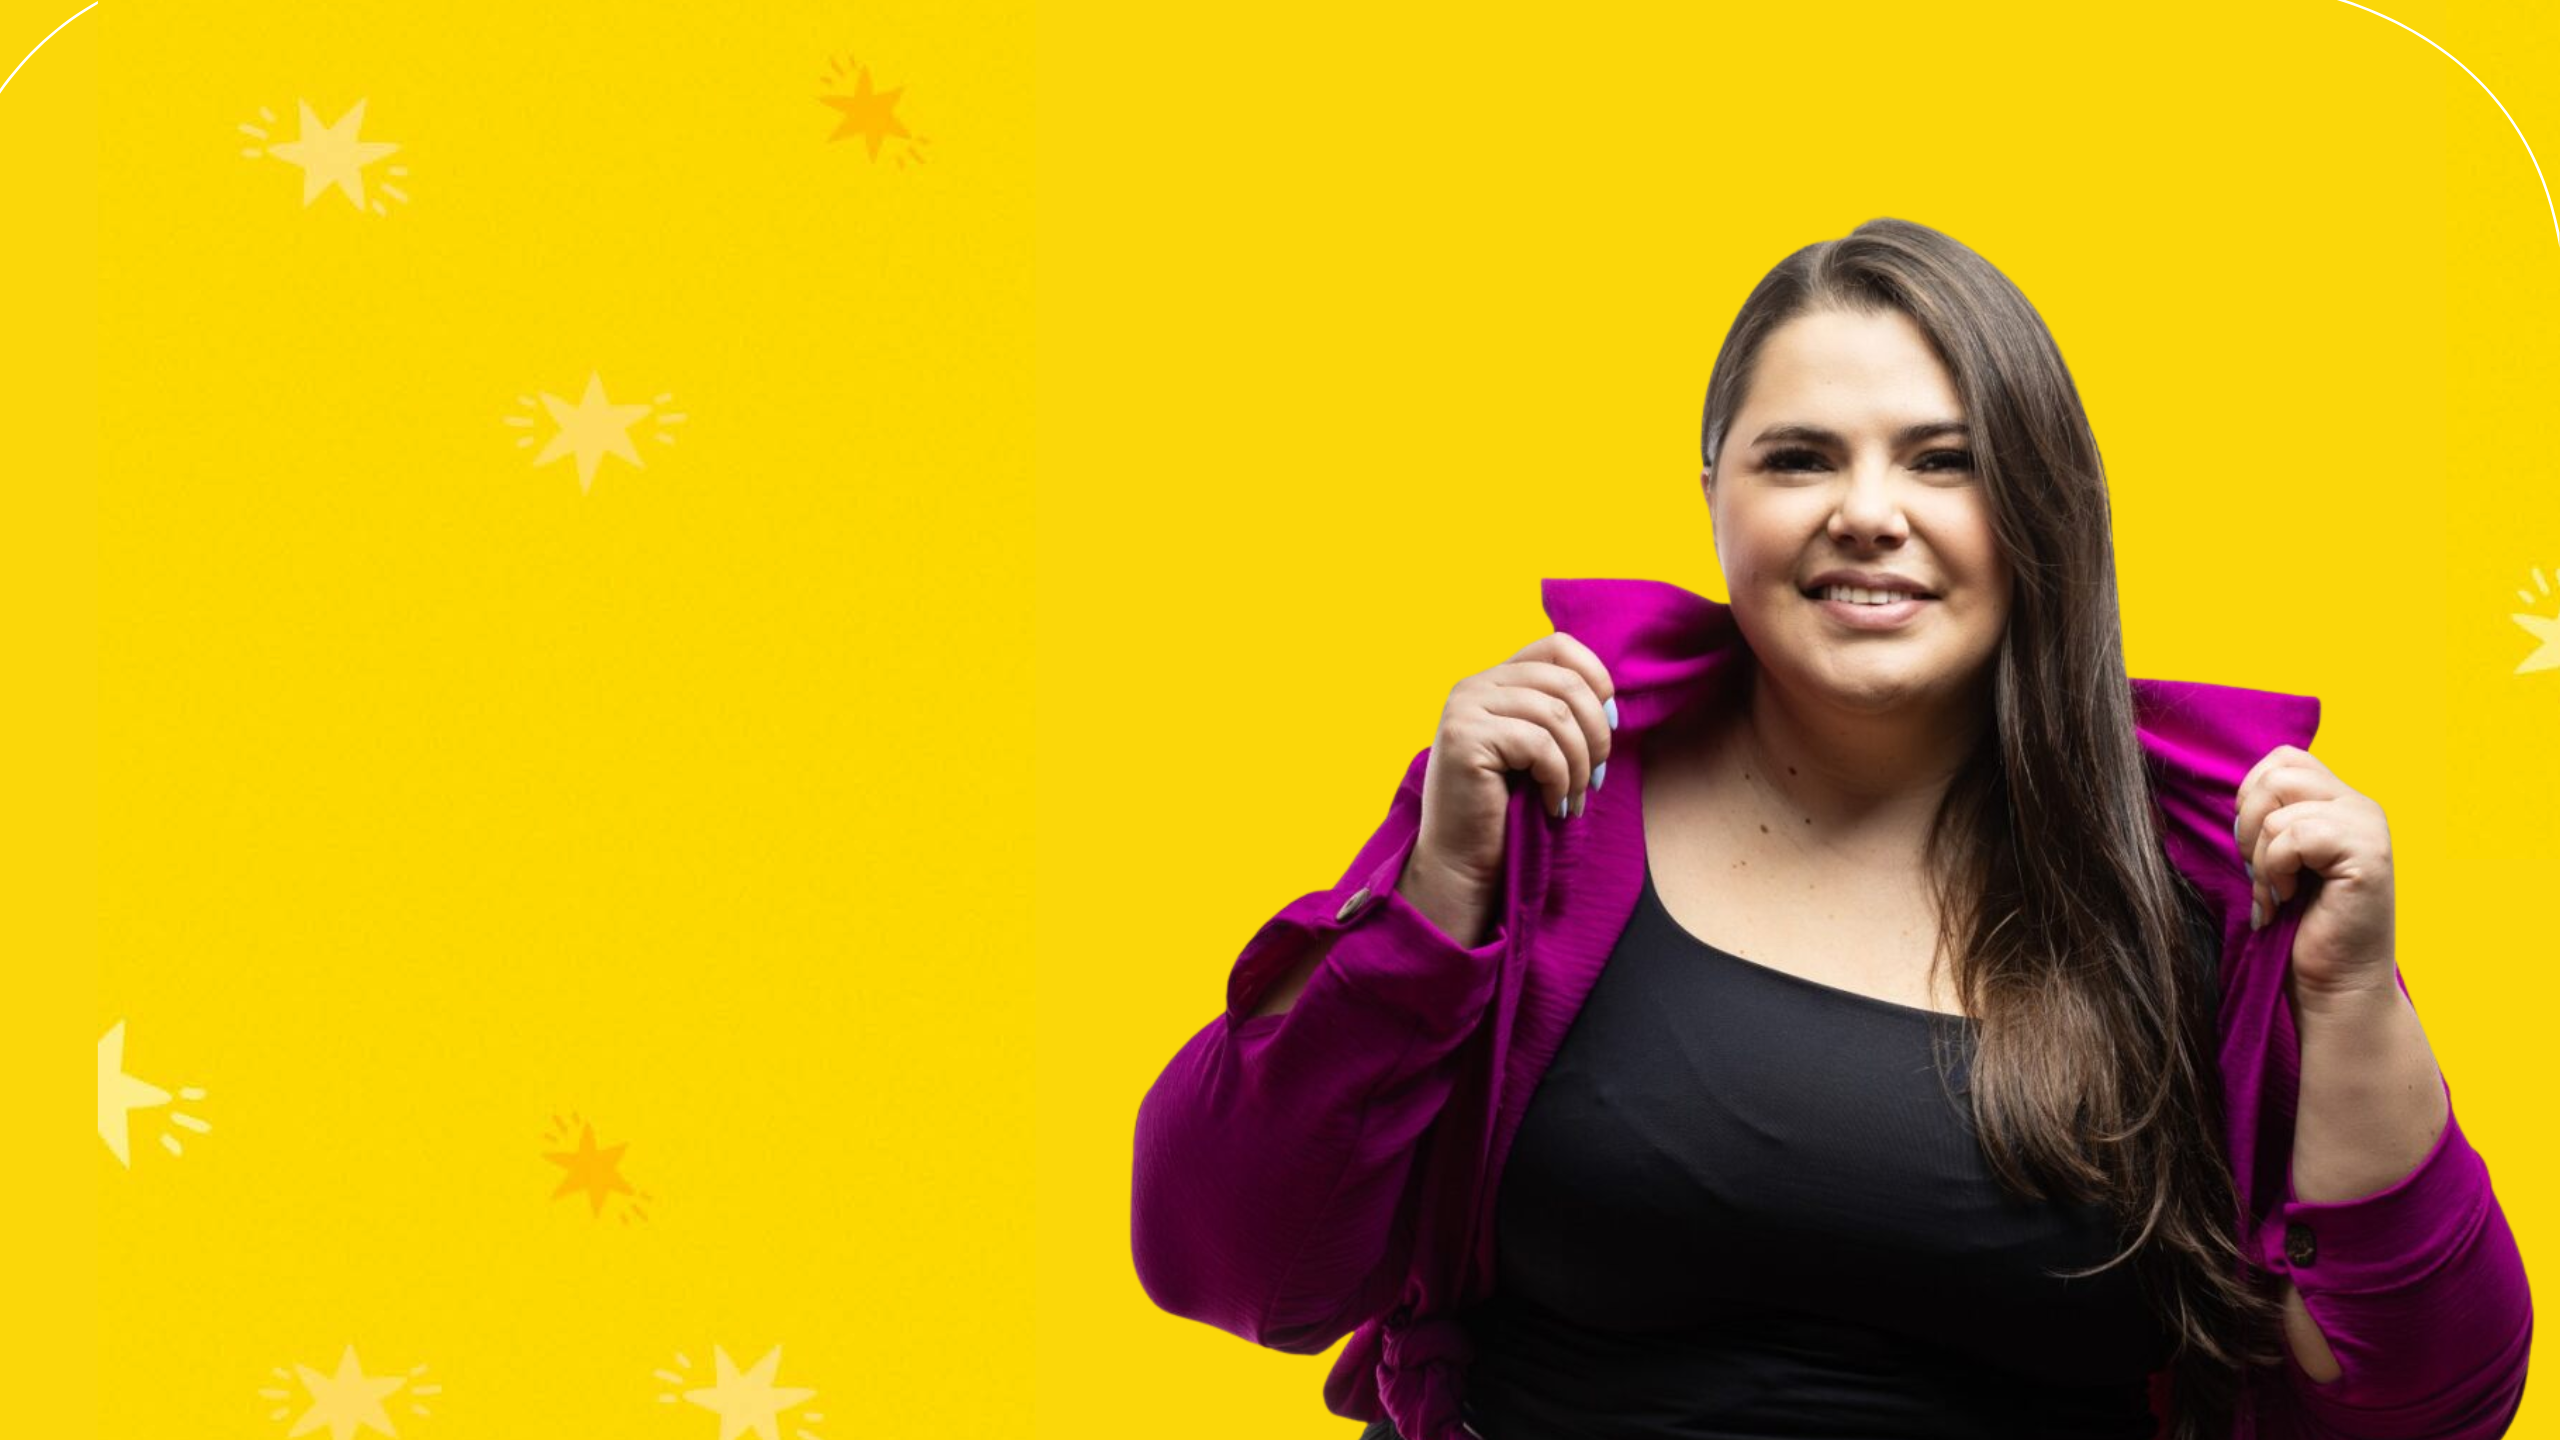
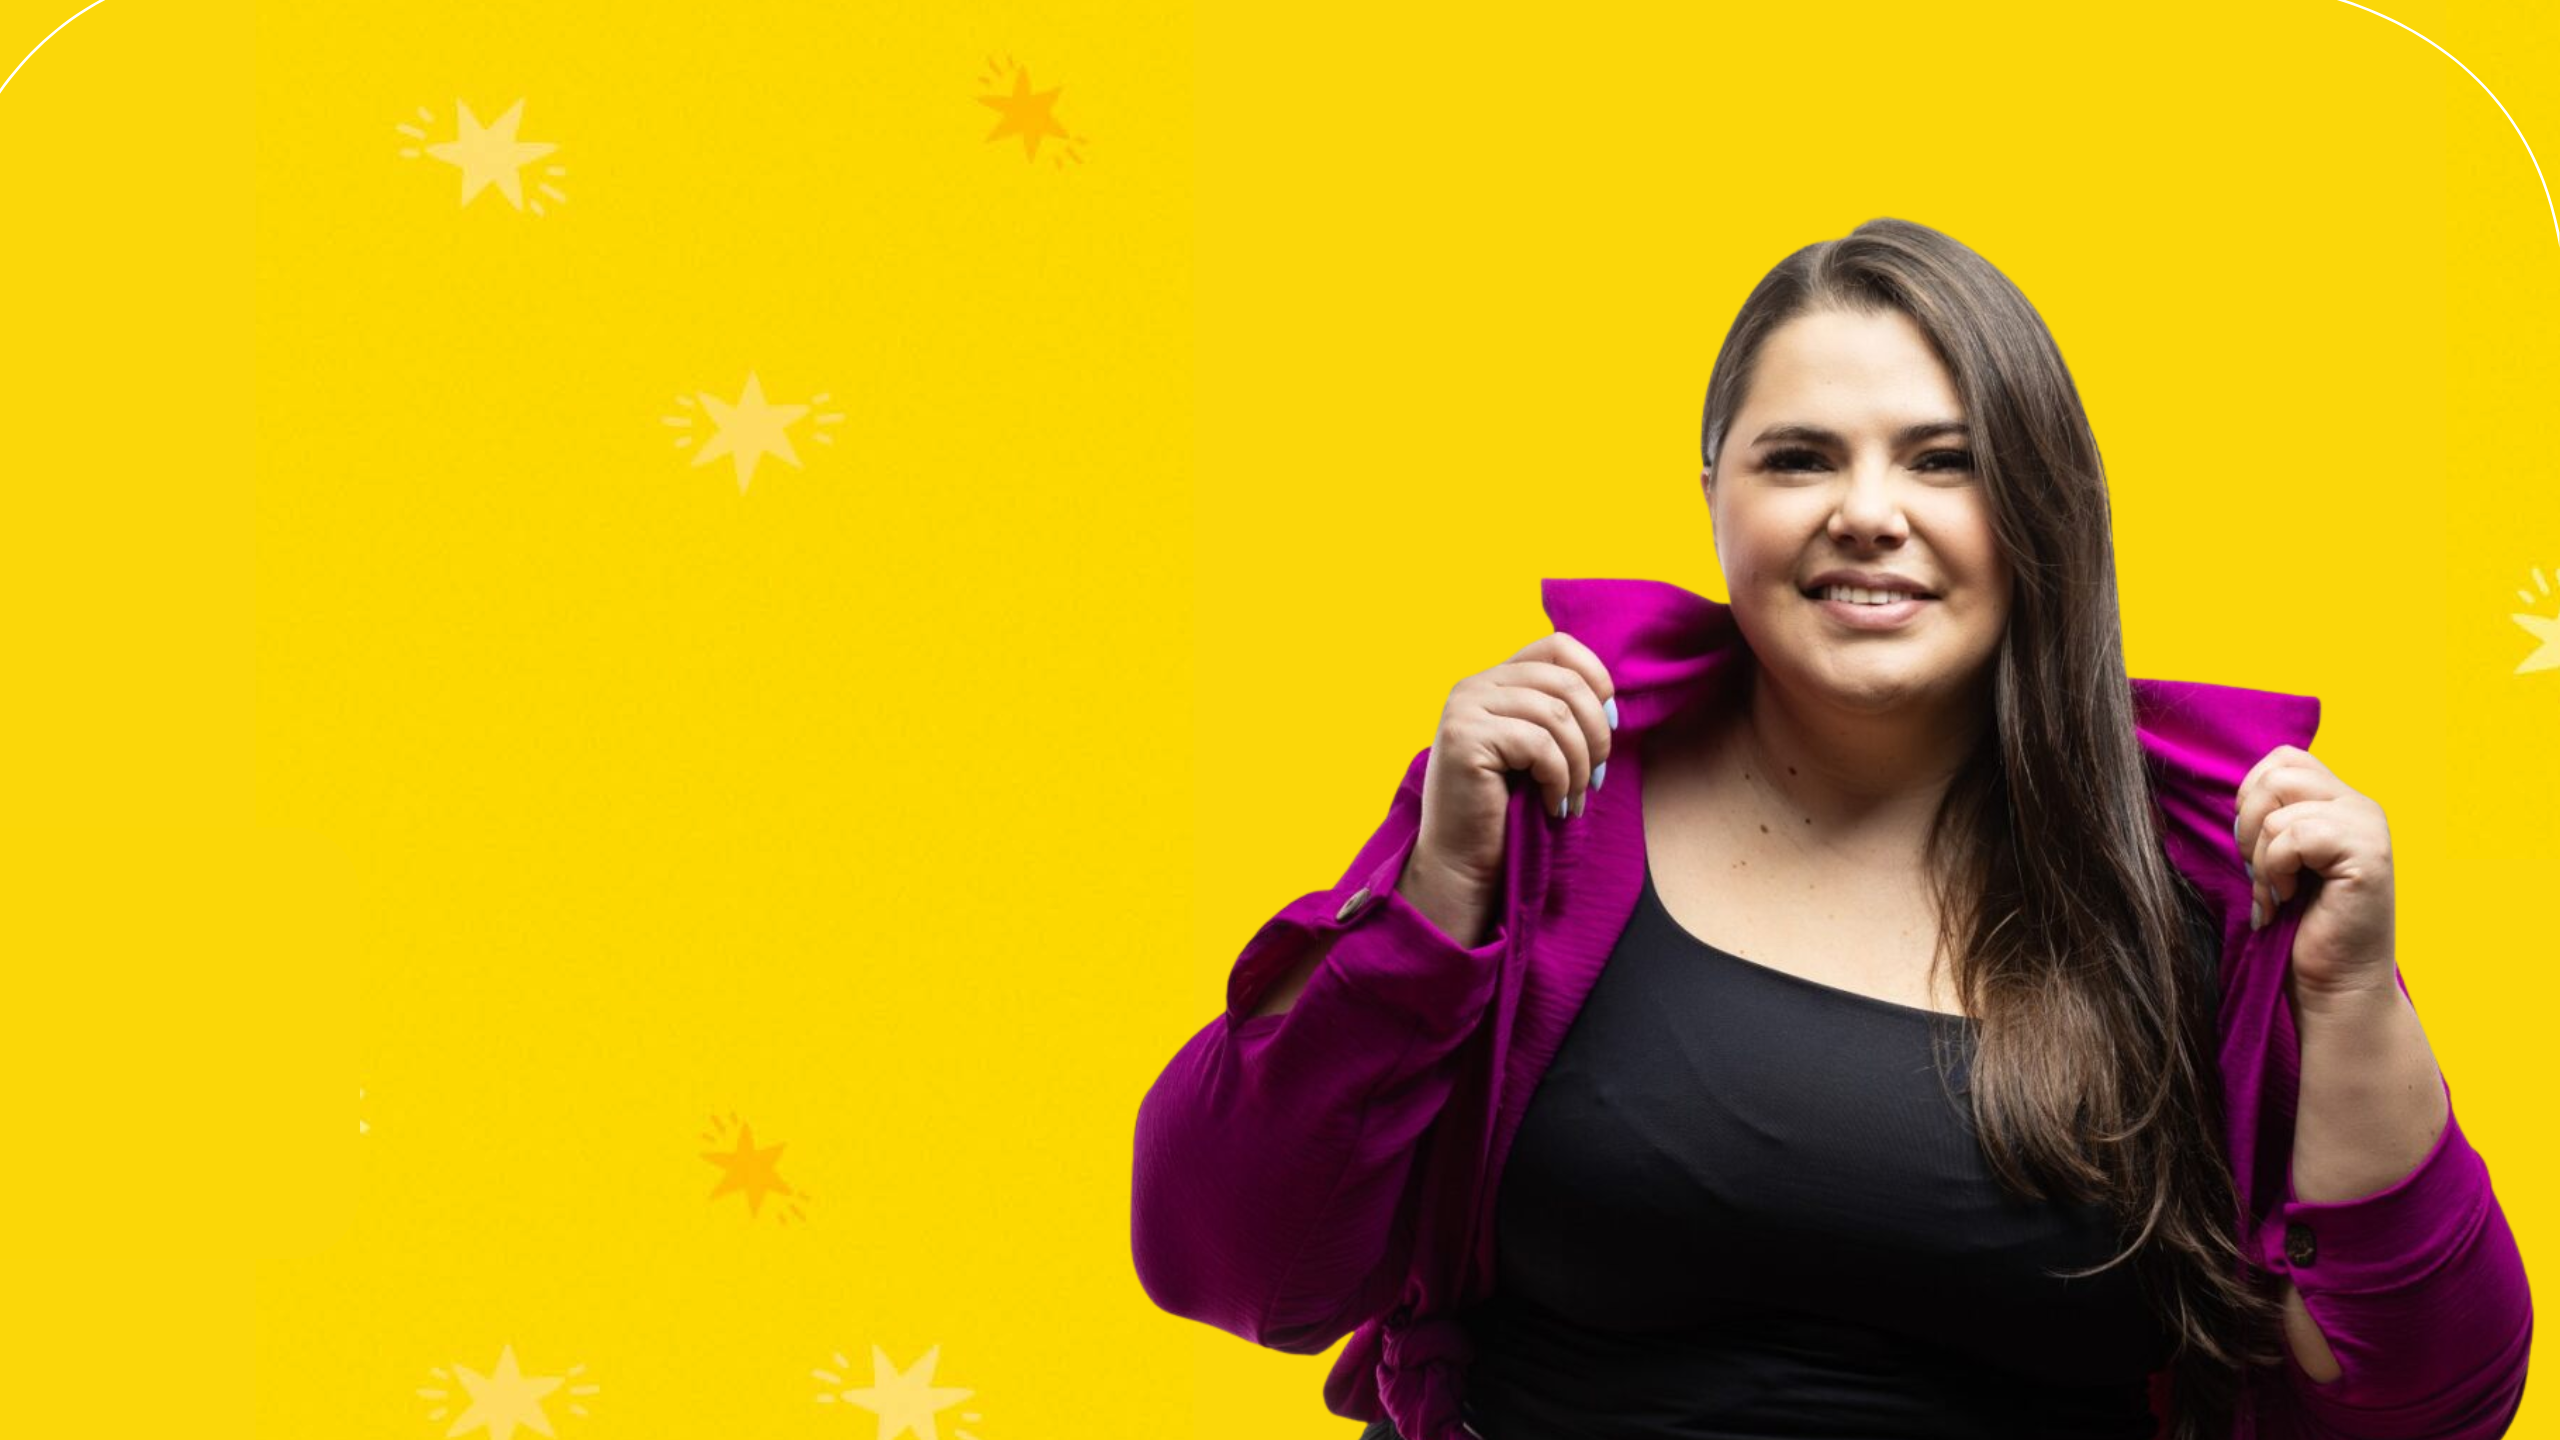
:iphone: Projeto: Ivangélica Site Oficial Commit: 1a Versão Oficial

diff --git a/css/new-styles.css b/css/new-styles.css
@@ -124,10 +124,10 @@
 
   .ul-social-icon{
     margin-left: 2.5vw;
+    top: -12vw
   }
   .ul-social-icon-contact{
-    margin-left: 90vw;
-    margin-top: clamp(5vw,12vw,18vw) !important;
+    top:1vw;
   }
   @media (max-width: 991px) {
     .ul-social-icon-contact{
@@ -136,7 +136,7 @@
   }
   .ul-social-icon-contact{
     margin-left: 90vw;
-    margin-top: clamp(3vw,3vw,18vw) !important;
+    top: 3vw !important;
   }
   @media (max-width: 491px) {
     .ul-social-icon {

diff --git a/css/style.css b/css/style.css
@@ -536,6 +536,11 @@ textarea.form-control {
 }
 #s-l6 {
   width: clamp(300px, 16vw, 25vw);
+  top: 70vw;
+}
+#s-l6c {
+  left: -14vw !important;
+  top: 4vw !important;
 }
 
 #l7 {
@@ -556,7 +561,8 @@ textarea.form-control {
   right: -10px;
 }
 #s-l9 {
-  width: 20vw;
+  width: 1px;
+  margin-right: 10vw !important;
 }
 
 .layer-bg {

diff --git a/index.html b/index.html
@@ -98,6 +98,7 @@
     <div class="layer" id="l9">
       <img src="images/illustrations/star-3.png" id="s-l9" alt="bg-shape">
     </div>
+    
     <!-- social icon -->
     <ul class="list-unstyled mt-3 position-relative zindex-1 ul-social-icon">
       <li class="mb-3"><a target="_blank" class="text-white social-icon-new"
